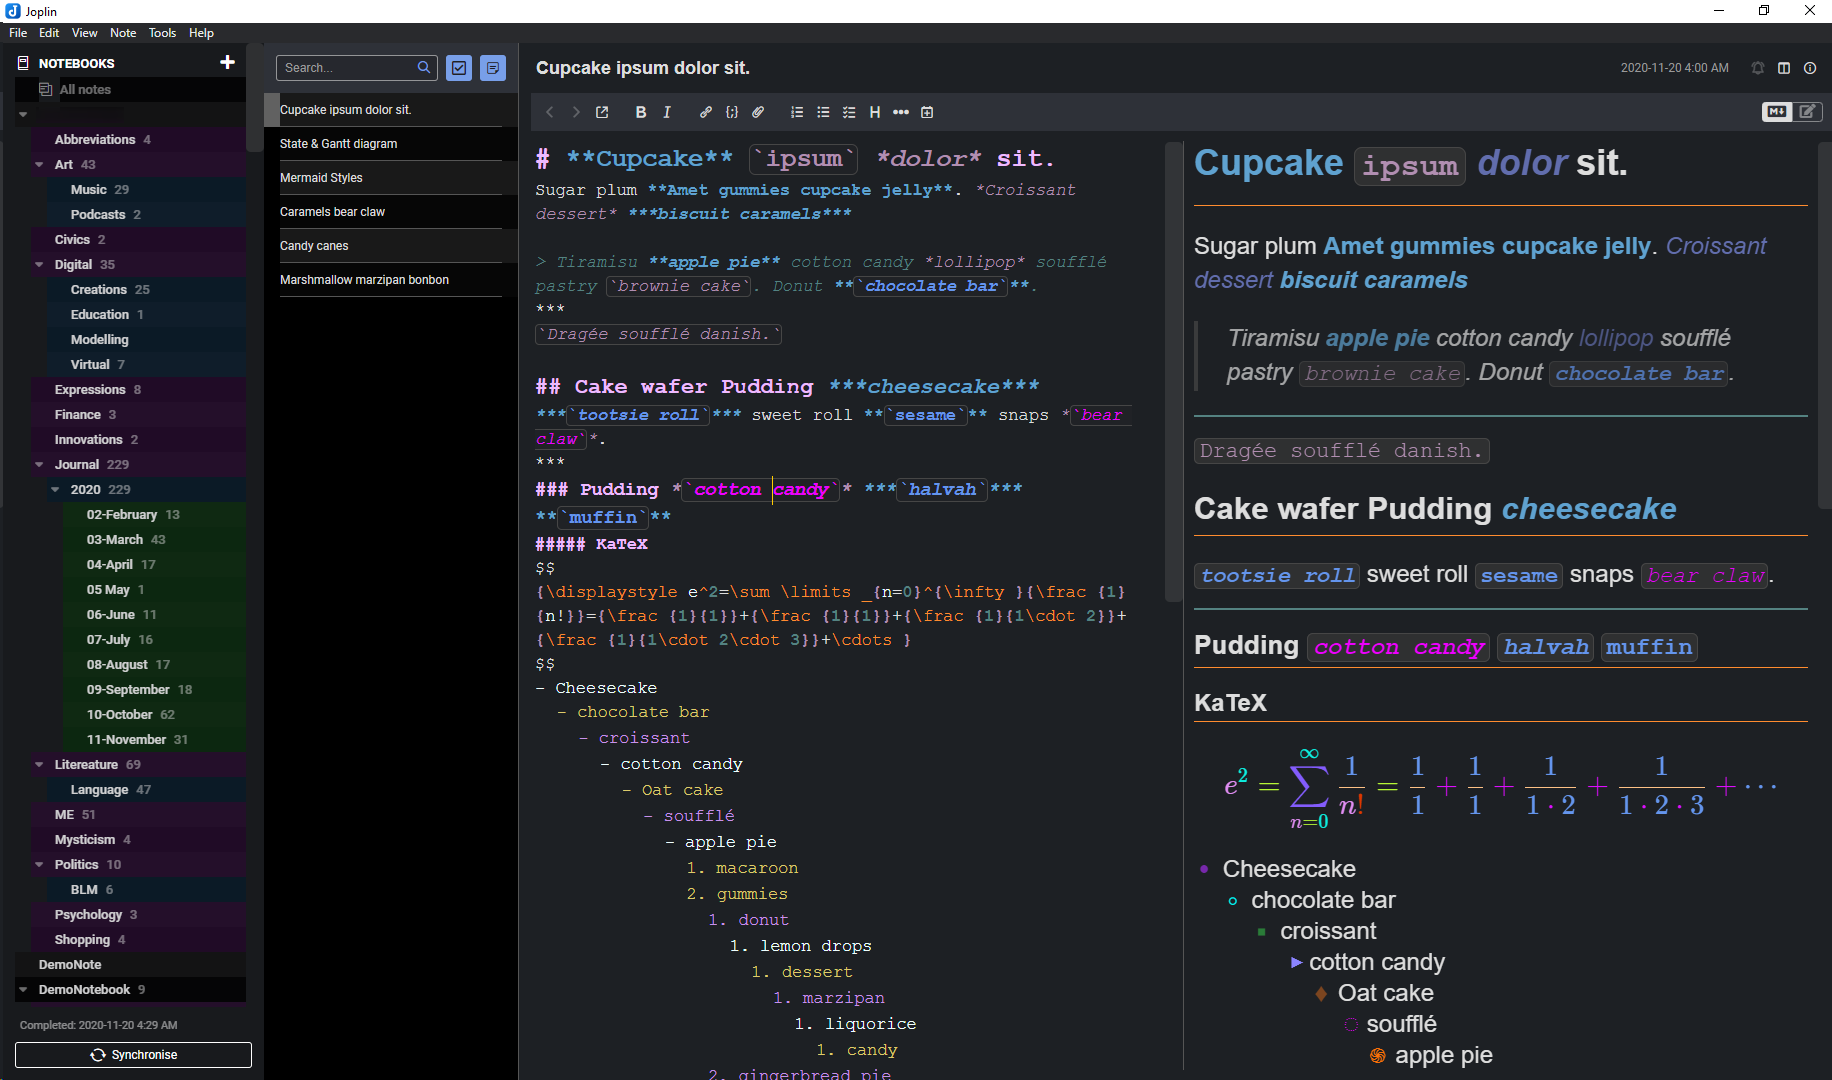
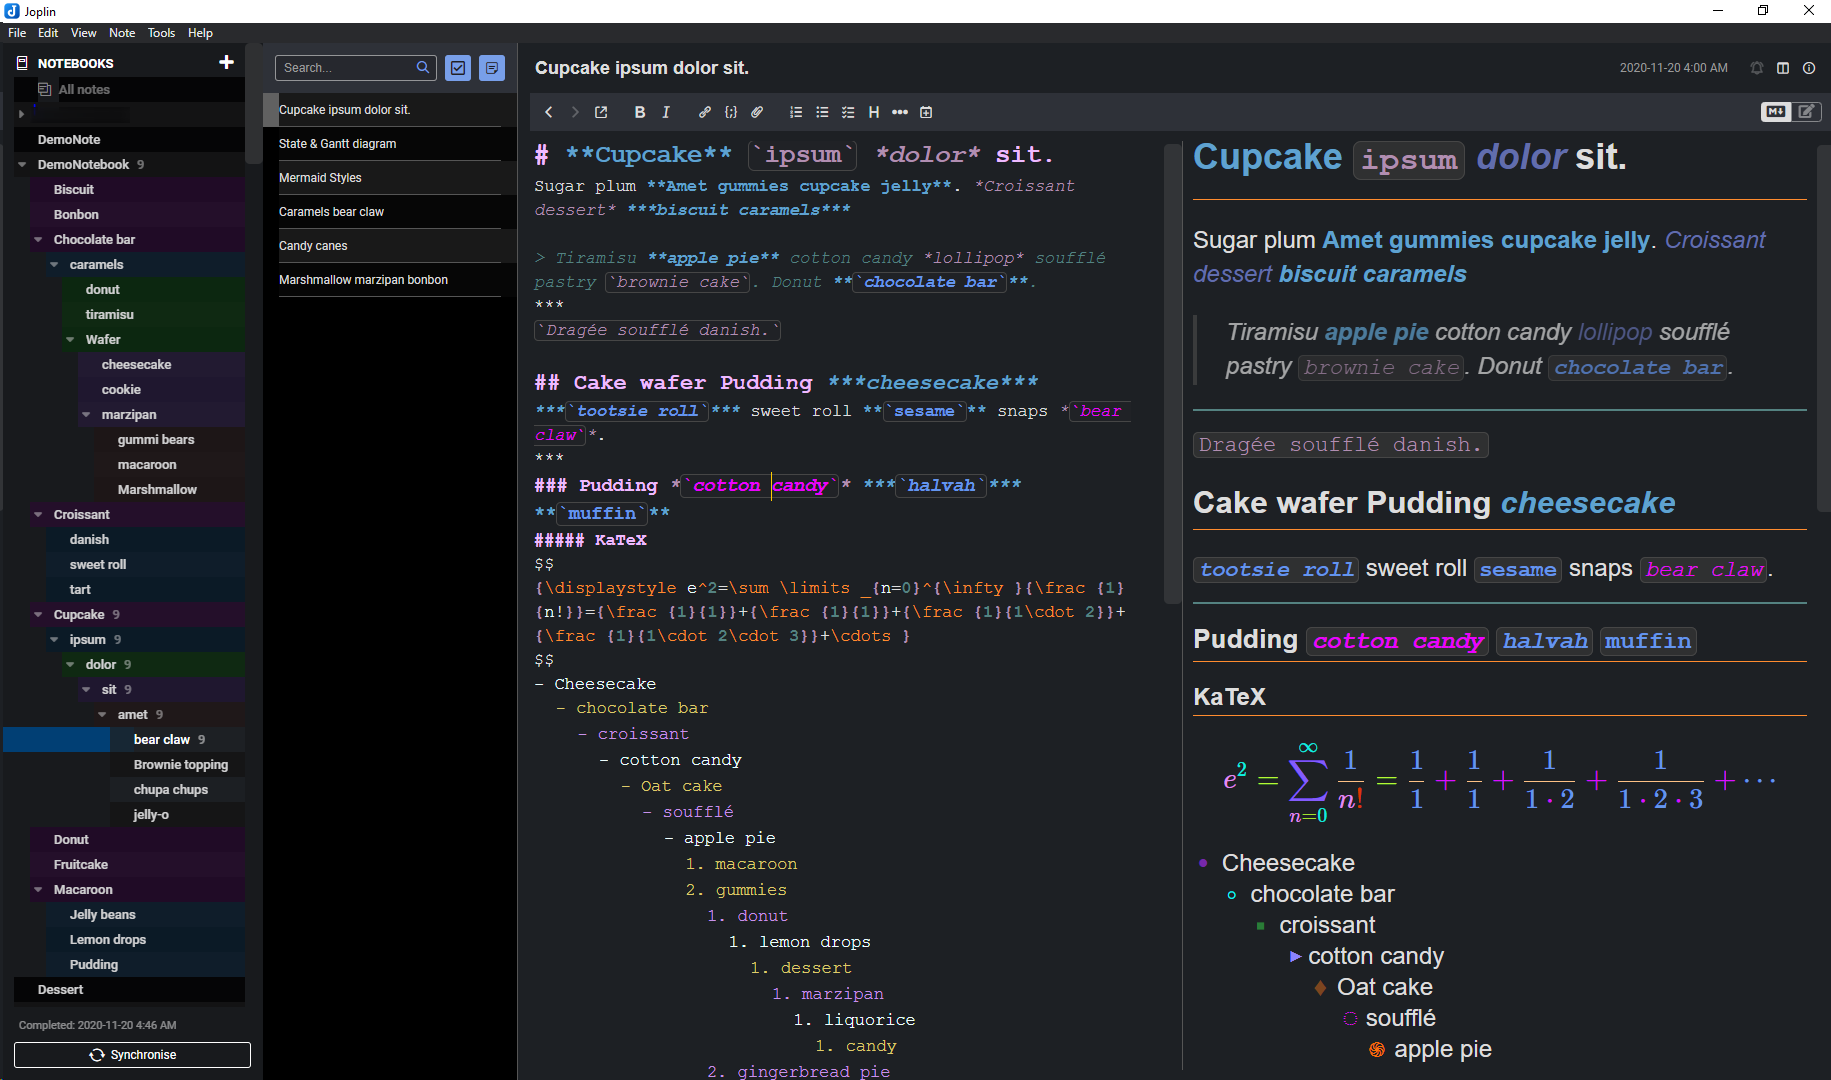
Editor inline code outline, coloring for bold and italics, to match both styles in rendered markdown; screenshot and description.

diff --git a/userchrome.css b/userchrome.css
@@ -53,7 +53,7 @@ div.CodeMirror.CodeMirror-wrap {
     border-radius: .25em;
 }
 
-/* inline code ital */
+/* inline code italics */
 .cm-s-material-darker pre.CodeMirror-line > span > span.cm-comment.cm-em {
 	color: #ed00ff !important;
 }

diff --git a/userstyle.css b/userstyle.css
@@ -212,11 +212,13 @@ blockquote {
 	color : #B18EB1 !important;
 }
 
+/* inline code italics */
 em .inline-code
 {
     color : #ed00ff !important;
 }
 
+/* inline code bold */
 strong .inline-code{
     color : #6495ed !important;
 }

diff --git a/README.md b/README.md
@@ -68,7 +68,7 @@ Direct child specificity used to avoid cascading to nested divs, like styling ba
 
 Wider scrollbars for lists and editor.
 
-Colorized header (***`#`***), inline code, bold, and italic styles, heavier bold weight, italicized blockqoute (text preceded by ***`>`*** on a new line).
+Colorized header (***`#`***), inline-code, bold, and italic styles, heavier bold weight, italicized blockqoute (text preceded by ***`>`*** on a new line).
 
 Colorized KaTeX numbers, brackets, vars, and tags.
 
